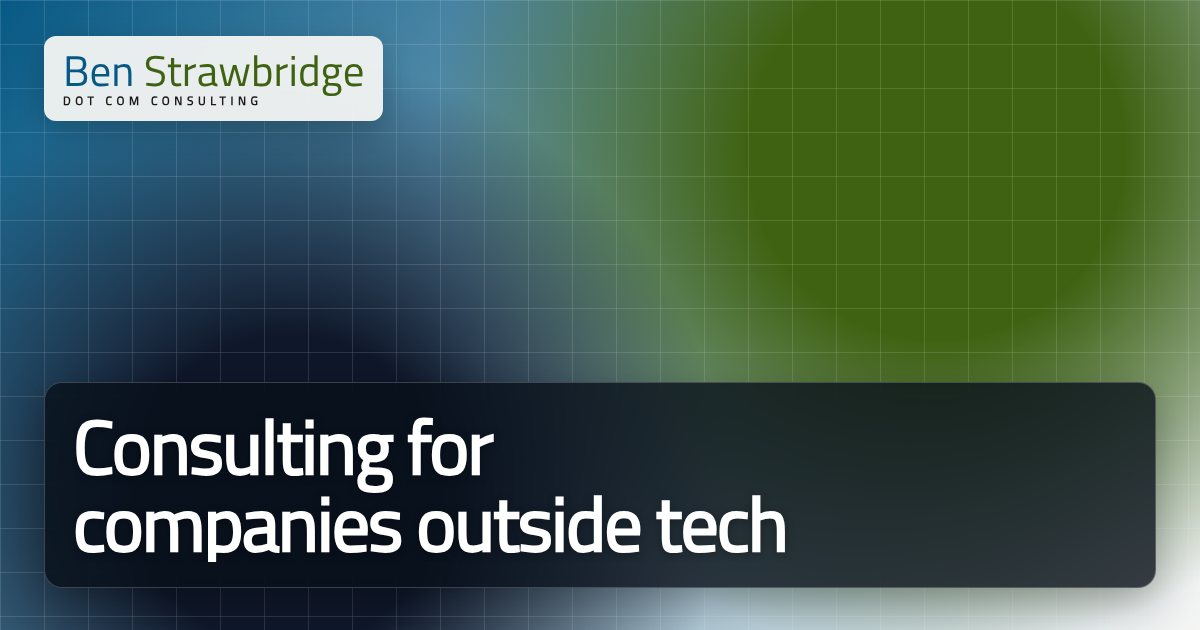
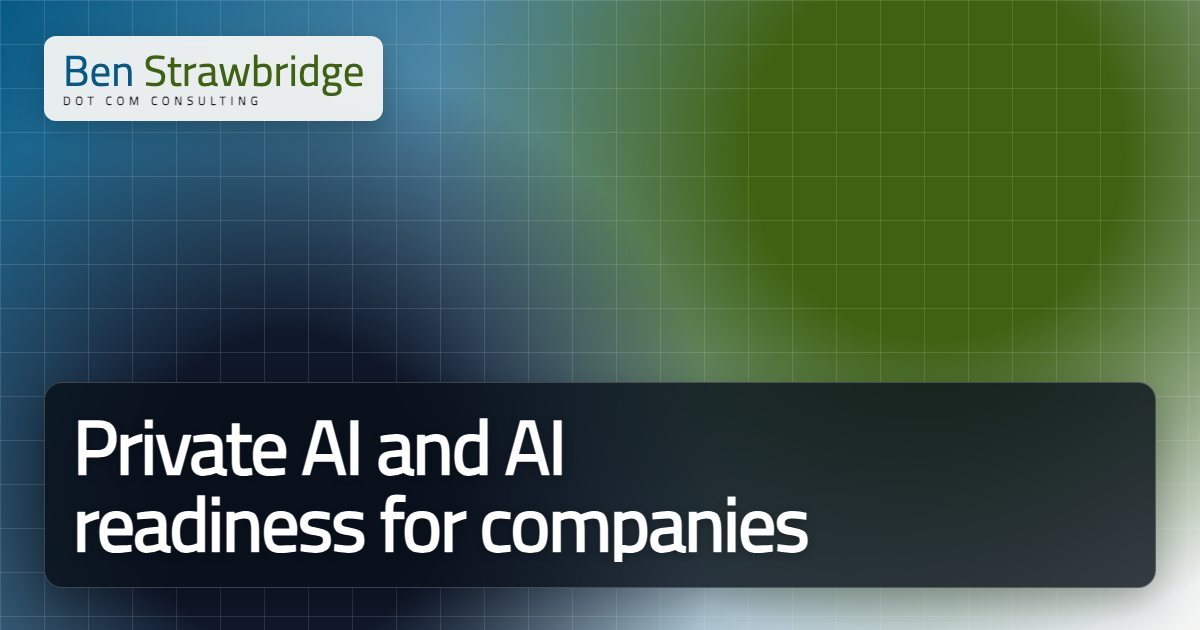
Retitle the consulting door pages around search terms
- Founders: "Fractional CPO and CTO for startups"
- Companies: "Private AI and AI readiness for companies"
- The h1 follows the title; nav and breadcrumb labels (linkTitle) are
  unchanged. Regenerate both OG cards and the manifest.

Changed region(s): [[0.0617, 0.6635, 0.6783, 0.9048], [0.0617, 0.0905, 0.3083, 0.181]]

diff --git a/content/consulting/companies/index.md b/content/consulting/companies/index.md
@@ -1,5 +1,5 @@
 +++
-title = 'Consulting for companies outside tech'
+title = 'Private AI and AI readiness for companies'
 linkTitle = 'Companies outside tech'
 description = 'Put AI to work on your own documents, data and tools, with private options that keep sensitive information in-house. Senior, vendor-neutral and hands-on.'
 date = 2026-10-06T00:00:00-07:00

diff --git a/content/consulting/founders/index.md b/content/consulting/founders/index.md
@@ -1,5 +1,5 @@
 +++
-title = 'Consulting for founders'
+title = 'Fractional CPO and CTO for startups'
 linkTitle = 'Founders'
 description = 'Fractional product and engineering help for founders: take an idea or a messy prototype to a working first product, built on an architecture that lasts.'
 date = 2026-10-06T00:00:00-07:00
